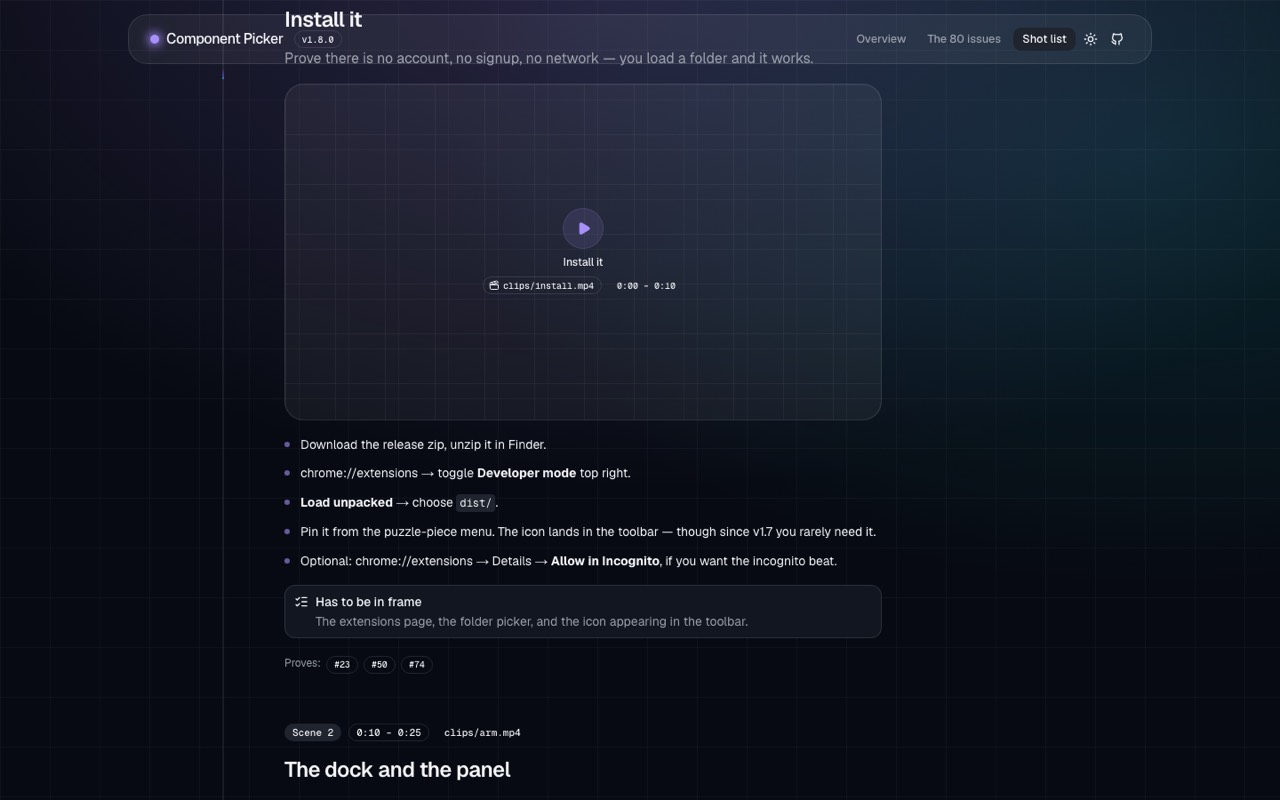
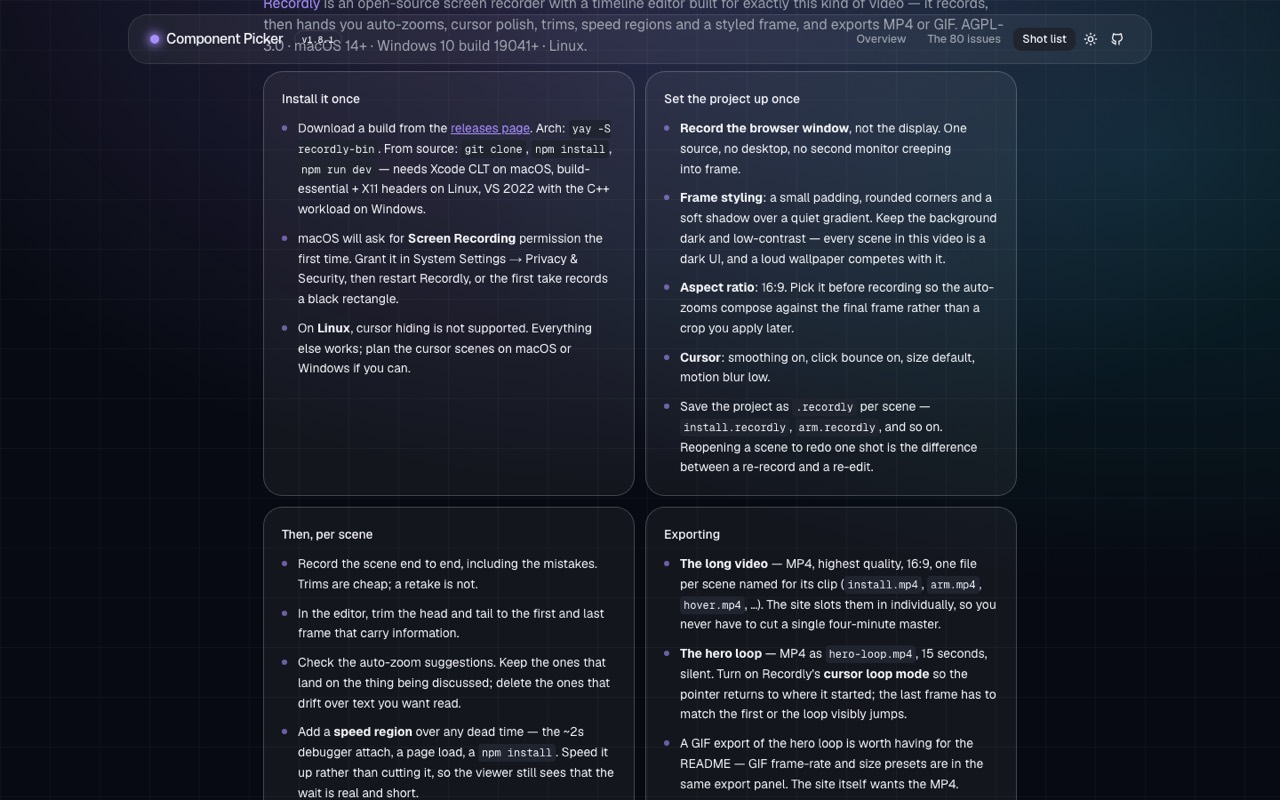
docs(web): build the shot list around Recordly, and bump to 1.8.1
The shot list said what to record and left "with what" to the reader. It now
assumes [Recordly](https://github.com/webadderallorg/Recordly) — open source,
AGPL-3.0, Electron, records then hands you a timeline editor with auto-zooms,
cursor polish, trims, speed regions and MP4/GIF export.

Four cards on /record: install it once (including the macOS Screen Recording
permission, which silently records a black rectangle if you skip it, and the
Linux cursor-hiding gap), set the project up once, the per-scene loop, and the
export settings with the filenames this site is waiting for.

Some of the old setup advice was really Recordly settings in disguise, so it is
rewritten rather than duplicated: cursor highlighting becomes cursor smoothing
and click bounce; a new Zoom item says to check every auto-zoom suggestion,
because the two scenes that matter most are small text — the bundle scroll and
the drawer's section list — and a zoom that drifts while you are reading is
worse than none. KeyCastr stays: Recordly polishes the cursor, not the keyboard,
and half this tool is keys.

Three things worth stating rather than leaving to be discovered: Recordly has no
CLI, so nothing here is scriptable; the Marketplace's browser-mockup frame is
tempting for the hero loop and wrong for it, because the point of that clip is
that this runs in your real browser; and AGPL covers Recordly's source, not the
videos you make with it.

Also 1.8.0 → 1.8.1, and the site screenshots re-taken.

Changed region(s): [[0.1875, 0.0, 0.7812, 0.5938], [0.2188, 0.5312, 0.7812, 1.0], [0.2188, 0.4062, 0.4688, 0.4688]]

diff --git a/web/src/data/scenes.ts b/web/src/data/scenes.ts
@@ -15,37 +15,42 @@ export const setup = [
   {
     label: "Window",
     detail:
-      "1512×861 at 2× — the size every capture in the bundles was taken at, so the numbers on screen match the numbers in the README.",
+      "1512×861 at 2× — the size every capture in the bundles was taken at, so the numbers on screen match the numbers in the README. In Recordly, record the **browser window**, not the whole display: it crops for you and keeps the desktop out of frame.",
   },
   {
     label: "Browser",
     detail:
-      "A clean Chrome profile. No bookmarks bar, no other extensions pinned, no personal tabs. Component Picker is the only icon in the toolbar.",
+      "A clean Chrome profile. No bookmarks bar, no other extensions pinned, no personal tabs. Component Picker is the only icon in the toolbar. The dock appears on every page by itself since v1.7, so there is nothing to click first.",
   },
   {
     label: "Keystrokes",
     detail:
-      "Run KeyCastr (or Chrome's own overlay). Half of this tool is keyboard — ↑ ↓ E M P F R — and an unlabelled keypress reads as magic, not as a feature.",
+      "Recordly polishes the cursor, not the keyboard. Half of this tool is keys — ↑ ↓ E M P F R C G — and an unlabelled keypress reads as magic rather than a feature, so run KeyCastr underneath, or add the key as a text annotation on the timeline afterwards.",
   },
   {
     label: "Cursor",
     detail:
-      "Turn on cursor highlighting and slow the pointer down. The picker follows the mouse; if the mouse is a blur the overlay looks like it is flickering.",
+      "Turn on **cursor smoothing** and **click bounce** in Recordly and stop fighting your own hand — the picker follows the pointer, and a jittery mouse makes the overlay look like it is flickering. Leave motion blur low; it smears the box-model bands.",
+  },
+  {
+    label: "Zoom",
+    detail:
+      "Let Recordly suggest zooms from cursor activity, then check every one. The bundle scroll and the drawer's section list are small text: they need a zoom held steady, not a zoom that drifts. Delete suggestions that move while you are trying to read.",
   },
   {
     label: "Capture",
     detail:
-      "60 fps, no audio. Add captions in the edit — a silent loop plays on a landing page, a narrated one does not.",
+      "No audio. Add captions in the edit — a silent loop plays on a landing page, a narrated one does not. Recordly records system and mic audio if you ask it to; do not.",
   },
   {
     label: "The paste target",
     detail:
-      "A Markdown editor with headings styled and syntax highlighting on, at a large font. Most of the runtime is scrolling a bundle; make it legible at 720p.",
+      "A Markdown editor with headings styled and syntax highlighting on, at a large font. A good part of the runtime is scrolling a bundle; make it legible at 720p before you record, not with a zoom afterwards.",
   },
   {
     label: "Sites",
     detail:
-      "resend.com/onboarding (tokens, gradients, context), github.com (hover states), ui.shadcn.com (icons, tabs), a Webflow and a GSAP site, and one of your own apps on localhost for the compare loop.",
+      "resend.com/onboarding (tokens, gradients, context), github.com (hover states), ui.shadcn.com (icons, tabs), a Webflow and a GSAP site, a Lottie and a three.js page for the animation scenes, and one of your own apps on localhost for the compare loop and the source-locations scene.",
   },
   {
     label: "DevTools",
@@ -53,6 +58,51 @@ export const setup = [
       "Closed. If DevTools is open on the tab, chrome.debugger cannot attach and the CDP sections are skipped — the bundle will say so on camera.",
   },
 ];
+
+/**
+ * The recording tool this shot list assumes. Recordly is a desktop app: it records,
+ * then hands you a timeline editor for zooms, trims and speed regions, and exports
+ * MP4 or GIF. There is no CLI — a person drives every step.
+ */
+export const recordly = {
+  name: "Recordly",
+  repo: "https://github.com/webadderallorg/Recordly",
+  site: "https://www.recordly.dev",
+  marketplace: "https://marketplace.recordly.dev/extensions",
+  licence: "AGPL-3.0",
+  platforms: "macOS 14+ · Windows 10 build 19041+ · Linux",
+  install: [
+    "Download a build from the [releases page](https://github.com/webadderallorg/Recordly/releases). Arch: `yay -S recordly-bin`. From source: `git clone`, `npm install`, `npm run dev` — needs Xcode CLT on macOS, build-essential + X11 headers on Linux, VS 2022 with the C++ workload on Windows.",
+    "macOS will ask for **Screen Recording** permission the first time. Grant it in System Settings → Privacy & Security, then restart Recordly, or the first take records a black rectangle.",
+    "On **Linux**, cursor hiding is not supported. Everything else works; plan the cursor scenes on macOS or Windows if you can.",
+  ],
+  once: [
+    "**Record the browser window**, not the display. One source, no desktop, no second monitor creeping into frame.",
+    "**Frame styling**: a small padding, rounded corners and a soft shadow over a quiet gradient. Keep the background dark and low-contrast — every scene in this video is a dark UI, and a loud wallpaper competes with it.",
+    "**Aspect ratio**: 16:9. Pick it before recording so the auto-zooms compose against the final frame rather than a crop you apply later.",
+    "**Cursor**: smoothing on, click bounce on, size default, motion blur low.",
+    "Save the project as `.recordly` per scene — `install.recordly`, `arm.recordly`, and so on. Reopening a scene to redo one shot is the difference between a re-record and a re-edit.",
+  ],
+  perScene: [
+    "Record the scene end to end, including the mistakes. Trims are cheap; a retake is not.",
+    "In the editor, trim the head and tail to the first and last frame that carry information.",
+    "Check the auto-zoom suggestions. Keep the ones that land on the thing being discussed; delete the ones that drift over text you want read.",
+    "Add a **speed region** over any dead time — the ~2s debugger attach, a page load, a `npm install`. Speed it up rather than cutting it, so the viewer still sees that the wait is real and short.",
+    "Add text annotations for the keys pressed if you are not running KeyCastr.",
+    "Export, then watch it once at 100% before moving on.",
+  ],
+  exports: [
+    "**The long video** — MP4, highest quality, 16:9, one file per scene named for its clip (`install.mp4`, `arm.mp4`, `hover.mp4`, …). The site slots them in individually, so you never have to cut a single four-minute master.",
+    "**The hero loop** — MP4 as `hero-loop.mp4`, 15 seconds, silent. Turn on Recordly's **cursor loop mode** so the pointer returns to where it started; the last frame has to match the first or the loop visibly jumps.",
+    "A GIF export of the hero loop is worth having for the README — GIF frame-rate and size presets are in the same export panel. The site itself wants the MP4.",
+    "Drop everything in `web/public/clips/` and rebuild. A file that is not there yet is not an error — the slot keeps showing its shot list.",
+  ],
+  gotchas: [
+    "Recordly has no CLI and no headless mode. Every step above is a person at a keyboard; nothing here can be scripted.",
+    "The **Marketplace** has extensions for cursor click sounds, device frames and browser mockups. A browser mockup frame is tempting for the hero loop — skip it. The point of that clip is that this runs in your real browser.",
+    "AGPL-3.0 covers Recordly's own source. It puts no licence of any kind on the videos you make with it.",
+  ],
+};
 
 export const scenes: Scene[] = [
   {

diff --git a/web/src/app/record/page.tsx b/web/src/app/record/page.tsx
@@ -7,6 +7,7 @@ import {
   ListChecks,
   Repeat,
   Scissors,
+  Video,
 } from "lucide-react";
 import { Badge } from "@/components/ui/badge";
 import { Separator } from "@/components/ui/separator";
@@ -14,7 +15,7 @@ import { Alert, AlertDescription, AlertTitle } from "@/components/ui/alert";
 import { TracingBeam } from "@/components/ui/tracing-beam";
 import { GlowingEffect } from "@/components/ui/glowing-effect";
 import { VideoSlot } from "@/components/site/video-slot";
-import { loop, scenes, setup } from "@/data/scenes";
+import { loop, recordly, scenes, setup } from "@/data/scenes";
 import { issues } from "@/data/issues";
 
 export const metadata: Metadata = {
@@ -38,11 +39,73 @@ export default function RecordPage() {
         </h1>
         <p className="max-w-2xl text-lg text-muted-foreground text-pretty">
           Fourteen scenes, about four and a half minutes, plus a fifteen-second silent loop for
-          the top of the site. Every scene below names its clip file — drop the file in{" "}
+          the top of the site. Recorded with Recordly. Every scene below names its clip file — drop the file in{" "}
           <code className="rounded bg-muted px-1.5 py-0.5 font-mono text-sm">public/clips/</code>{" "}
           and the placeholder becomes the video.
         </p>
       </header>
+
+      {/* ── The tool ─────────────────────────────────────────── */}
+      <section className="flex flex-col gap-4">
+        <h2 className="flex items-center gap-2 text-xl font-semibold tracking-tight">
+          <Video className="size-5 text-primary" />
+          Record it with Recordly
+        </h2>
+        <p className="text-muted-foreground text-pretty">
+          <a
+            href={recordly.repo}
+            target="_blank"
+            rel="noreferrer"
+            className="text-primary hover:underline"
+          >
+            Recordly
+          </a>{" "}
+          is an open-source screen recorder with a timeline editor built for exactly this kind of
+          video — it records, then hands you auto-zooms, cursor polish, trims, speed regions and a
+          styled frame, and exports MP4 or GIF. {recordly.licence} · {recordly.platforms}.
+        </p>
+
+        <div className="grid gap-3 md:grid-cols-2">
+          {(
+            [
+              ["Install it once", recordly.install],
+              ["Set the project up once", recordly.once],
+              ["Then, per scene", recordly.perScene],
+              ["Exporting", recordly.exports],
+            ] as const
+          ).map(([title, items]) => (
+            <div key={title} className="glass relative isolate rounded-2xl p-5">
+              <GlowingEffect spread={30} glow proximity={60} inactiveZone={0.02} borderWidth={1} />
+              <p className="mb-3 text-sm font-medium">{title}</p>
+              <ol className="flex flex-col gap-2.5">
+                {items.map((t, i) => (
+                  <li key={i} className="flex gap-3">
+                    <span className="mt-2 size-1.5 shrink-0 rounded-full bg-primary/60" />
+                    <p
+                      className="text-sm leading-relaxed text-pretty [&_a]:text-primary [&_a]:underline [&_code]:rounded [&_code]:bg-muted [&_code]:px-1 [&_code]:py-0.5 [&_code]:font-mono [&_code]:text-xs"
+                      dangerouslySetInnerHTML={{ __html: md(t) }}
+                    />
+                  </li>
+                ))}
+              </ol>
+            </div>
+          ))}
+        </div>
+
+        <Alert>
+          <ListChecks className="text-amber" />
+          <AlertTitle>Worth knowing before you start</AlertTitle>
+          <AlertDescription>
+            <ul className="flex flex-col gap-1.5">
+              {recordly.gotchas.map((g, i) => (
+                <li key={i} className="text-pretty">
+                  {g}
+                </li>
+              ))}
+            </ul>
+          </AlertDescription>
+        </Alert>
+      </section>
 
       {/* ── Before you hit record ────────────────────────────── */}
       <section className="flex flex-col gap-4">
@@ -231,5 +294,9 @@ function md(s: string) {
     .replace(/</g, "&lt;")
     .replace(/>/g, "&gt;")
     .replace(/`([^`]+)`/g, "<code>$1</code>")
-    .replace(/\*\*([^*]+)\*\*/g, "<strong>$1</strong>");
+    .replace(/\*\*([^*]+)\*\*/g, "<strong>$1</strong>")
+    .replace(
+      /\[([^\]]+)\]\((https:\/\/[^)]+)\)/g,
+      '<a href="$2" target="_blank" rel="noreferrer">$1</a>'
+    );
 }

diff --git a/web/src/data/types.ts b/web/src/data/types.ts
@@ -26,6 +26,6 @@ export type Tier = {
   shipped: boolean;
 };
 
-export const VERSION = "1.8.0";
+export const VERSION = "1.8.1";
 export const REPO = "https://github.com/niyamvora/component-picker";
 export const issueUrl = (n: number) => `${REPO}/issues/${n}`;

diff --git a/web/README.md b/web/README.md
@@ -8,7 +8,7 @@ list for the demo video.
 ```sh
 npm install
 npm run dev     # http://localhost:3000
-npm run build   # 69 static pages
+npm run build   # 86 static pages
 ```
 
 ## Routes
@@ -16,9 +16,9 @@ npm run build   # 69 static pages
 | Route | What it is |
 |---|---|
 | `/` | Hero, the bento of what one capture contains, the milestone timeline |
-| `/issues` | All 63 issues, filterable by milestone and status |
+| `/issues` | All 80 issues, filterable by milestone and status |
 | `/issues/[n]` | One issue: what was wrong, the acceptance criterion, its video slot, its shot list |
-| `/record` | The full shot list — 12 scenes, the setup checklist, and every clip filename |
+| `/record` | The full shot list — 14 scenes, the Recordly workflow, and every clip filename |
 
 <img src="public/shots/site-issues.jpg" alt="The issues page — a filterable bento grid of every issue" width="49%"> <img src="public/shots/site-record.jpg" alt="The shot list page — scenes on a tracing beam" width="49%">
 
@@ -38,9 +38,12 @@ public/clips/<scene-id>.mp4    # one per scene on /record (install, arm, hover, 
 public/clips/issue-<n>.mp4     # optional, per issue page
 ```
 
-`/record` lists every filename the site is waiting for, in order.
+`/record` lists every filename the site is waiting for, in order, and the workflow for producing
+them in [Recordly](https://github.com/webadderallorg/Recordly) — an open-source screen recorder with
+a timeline editor (auto-zooms, cursor polish, speed regions, MP4/GIF export). It has no CLI: a
+person drives every step.
 
-`public/shots/` holds the stills. `dock.png`, `drawer.png` and `popup.png` are real captures of the
+`public/shots/` holds the stills. `dock.png`, `drawer.png`, `design.png` and `panel.png` are real captures of the
 running extension, not mockups — the shot script boots the built `dist/` in Chrome for Testing,
 arms the picker over a demo page and screenshots through CDP. They need GPU compositing:
 `--disable-gpu` flattens `backdrop-filter` and the glass renders as a dull slab.
@@ -50,9 +53,9 @@ arms the picker over a demo page and screenshots through CDP. They need GPU comp
 Everything on the site comes from two files, so the content lives in one place and the counts are
 never typed twice:
 
-- `src/data/issues.ts` — the milestones and all 63 issues, each with the reason it was filed, its
+- `src/data/issues.ts` — the milestones and all 80 issues, each with the reason it was filed, its
   acceptance criterion, and what to film for it.
-- `src/data/scenes.ts` — the recording setup, the hero loop, and the 12 scenes.
+- `src/data/scenes.ts` — the recording setup, the Recordly workflow, the hero loop, and the 14 scenes.
 - `src/data/types.ts` — `VERSION`, in exactly one place.
 
 The hero badge, the stat row, the nav label and the "still open" list all read the arrays. When a
